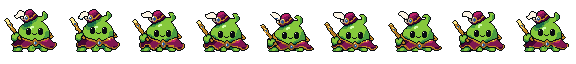
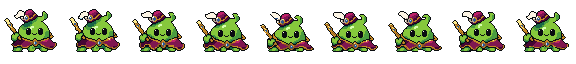
Refine Farmer prop motion and Bardley face timing

diff --git a/ArtSource/CombatIdles/Scripts/refine_motion_body.js b/ArtSource/CombatIdles/Scripts/refine_motion_body.js
@@ -1,0 +1,74 @@
+// Native LibreSprite refinement of the reviewed first family pass.
+// Integer pixel placement only. Preserve Rattlebones and Pan Villager byte-for-byte.
+function idx(x,y){return (y*64+x)*4;}
+function color(a,i){return ('0'+a[i].toString(16)).slice(-2).toUpperCase()+('0'+a[i+1].toString(16)).slice(-2).toUpperCase()+('0'+a[i+2].toString(16)).slice(-2).toUpperCase();}
+function cp(a,i,b,j){for(var k=0;k<4;++k)b[j+k]=a[i+k];}
+function put(a,i,h){a[i]=parseInt(h.substr(0,2),16);a[i+1]=parseInt(h.substr(2,2),16);a[i+2]=parseInt(h.substr(4,2),16);a[i+3]=255;}
+function read(c){
+ var a=new Uint8Array(16384),s=c.image.getImageData(),w=c.image.width,h=c.image.height;
+ for(var y=0;y<h;++y)for(var x=0;x<w;++x)cp(s,(y*w+x)*4,a,idx(x+c.x,y+c.y));return a;
+}
+function openInput(name){
+ app.open(ROOT+'Originals/FamilyPass1/'+name+'_Idle.aseprite');
+ var s=app.activeSprite,frames=[];for(var f=0;f<s.layer(0).celCount;++f)frames.push(read(s.layer(0).cel(f)));
+ s.saveAs(ROOT+'Review/'+name+'_Correction.aseprite',false);return {sprite:s,frames:frames};
+}
+function save(s,frames){
+ for(var f=0;f<9;++f){var c=s.layer(0).cel(f);if(c.image.width!==64||c.image.height!==64)throw Error('Expected full cels');c.image.putImageData(frames[f]);}
+ s.commit();s.save();app.command.GotoFirstFrame();
+}
+function isHead(x,y){return y<=35&&(y<23||x>=19);}
+var farmer=openInput('Farmer'),pose=new Uint8Array(farmer.frames[0]);
+// Correct a few existing material leaks inside the fixed reference pose.
+for(var y=0;y<36;++y)for(var x=0;x<64;++x){var i=idx(x,y);if(pose[i+3]&&isHead(x,y)&&y<23&&color(pose,i)==='B07A43')put(pose,i,'B88A46');}
+// The diagonal shaft is wood, not the matching-value skin shadow used by PixelLab.
+var shaftRows={41:[26,28],42:[27,30],43:[28,32],44:[30,34],45:[32,35],46:[34,37],47:[35,39],48:[37,41],49:[39,42]};
+for(var y in shaftRows){var span=shaftRows[y];for(var x=span[0];x<=span[1];++x){var i=idx(x,+y),h=color(pose,i);if(h==='7C5238')put(pose,i,'7A4D2E');else if(h==='B9825D')put(pose,i,'B07A43');}}
+var upper=[0,0,1,2,3,3,2,1,0],hip=[0,1,2,3,3,2,1,0,0],head=[0,0,1,1,2,2,1,1,1],farmerOut=[];
+for(var f=0;f<9;++f){
+ var a=new Uint8Array(16384),u=upper[f],h=head[f],k=hip[f];
+ // The entire tool, both hands, forearms and torso translate together. No tip-only mask.
+ for(var y=0;y<64;++y)for(var x=0;x<64;++x){var i=idx(x,y);if(!pose[i+3]||isHead(x,y))continue;
+  if(y>=54&&x<=42)continue;
+  if(y>=36&&y<40&&x>=26)continue; // shoulder/neck bridge below
+  cp(pose,i,a,idx(x,y+u));
+ }
+ // Connect the quieter head to the moving shoulders with existing pixel rows.
+ for(var y=36+h;y<40+u;++y){var sy=36+Math.floor((y-36-h)*4/(4+u-h));
+  for(var x=26;x<64;++x){var i=idx(x,sy);if(pose[i+3])cp(pose,i,a,idx(x,y));}
+ }
+ // Knees absorb the stance compression; the original boot/contact rows stay fixed.
+ for(var y=54+u;y<60;++y){var sy;
+  if(y<57+k)sy=54+Math.floor((y-54-u)*3/Math.max(1,3+k-u));
+  else sy=57+Math.floor((y-57-k)*3/Math.max(1,3-k));
+  for(var x=0;x<=42;++x)cp(pose,idx(x,sy),a,idx(x,y));
+ }
+ for(var y=60;y<64;++y)for(var x=0;x<=42;++x)cp(pose,idx(x,y),a,idx(x,y));
+ for(var y=0;y<36;++y)for(var x=0;x<64;++x){var i=idx(x,y);if(pose[i+3]&&isHead(x,y))cp(pose,i,a,idx(x,y+h));}
+ farmerOut.push(a);
+}
+save(farmer.sprite,farmerOut);
+
+var bard=openInput('Bardley'),eyeTop=[28,27,30,31,32,32,31,30,29],faceTop=[28,28,29,30,31,31,30,29,29],bardOut=[];
+var greens={'176747':true,'4A9B3F':true,'86C83C':true,'D5FFAD':true};
+for(var f=0;f<9;++f){
+ var src=bard.frames[f],a=new Uint8Array(src),features=[],mask={};
+ // Only the existing eye/catchlight/smile pixels move, as one exact facial glyph.
+ for(var y=eyeTop[f];y<=eyeTop[f]+6;++y)for(var x=26;x<=42;++x){var i=idx(x,y),c=color(src,i);
+  if(c==='0A0D11'||c==='FDF5E5'){features.push([x,y]);mask[y*64+x]=true;}
+ }
+ var dy=faceTop[f]-eyeTop[f];
+ if(dy){
+  // Restore the local slime plane from its nearest horizontal same-material neighbors.
+  for(var n=0;n<features.length;++n){var x=features[n][0],y=features[n][1],shade='86C83C';
+   for(var d=1;d<=12;++d){var found=false;
+    for(var sign=1;sign>=-1;sign-=2){var xx=x+sign*d;if(xx<0||xx>=64||mask[y*64+xx])continue;var c=color(src,idx(xx,y));if(greens[c]){shade=c;found=true;break;}}
+    if(found)break;
+   }
+   put(a,idx(x,y),shade);
+  }
+  for(var n=0;n<features.length;++n){var x=features[n][0],y=features[n][1];cp(src,idx(x,y),a,idx(x,y+dy));}
+ }
+ bardOut.push(a);
+}
+save(bard.sprite,bardOut);

diff --git a/ArtSource/CombatIdles/Preview.html b/ArtSource/CombatIdles/Preview.html
@@ -10,9 +10,9 @@
 <nav><button id="play">Pause</button><button id="prev" aria-label="Previous frame">←</button><button id="next" aria-label="Next frame">→</button><input id="frame" aria-label="Frame" type="range" min="1" max="9" value="1"><output id="position">Frame 1 / 9</output><label>Speed <select id="speed"><option value="1">100%</option><option value="0.5">50%</option></select></label><button id="background">Light background</button><button id="seam">Loop seam: 9 → 1</button></nav>
 <main>
 <article class="card" data-name="Rattlebones"><h2>Rattlebones</h2><div class="note">Gold-standard motion · 15 colors</div></article>
-<article class="card" data-name="Farmer"><h2>Farmer</h2><div class="note">Planted stance · pitchfork follow-through · 14 colors</div></article>
+<article class="card" data-name="Farmer"><h2>Farmer</h2><div class="note">Calmer head · rigid pitchfork and grips · 14 colors</div></article>
 <article class="card" data-name="PanVillager"><h2>Pan Villager</h2><div class="note">Upright stance dip · cool iron pan · 16 colors</div></article>
-<article class="card" data-name="Bardley"><h2>Bardley</h2><div class="note">Fuller settle and recovery · anchored base · 15 colors</div></article>
+<article class="card" data-name="Bardley"><h2>Bardley</h2><div class="note">Face follows body · anchored base · 15 colors</div></article>
 </main>
 <div class="footer"><p>Large views are exact 4× pixels; small views are native 1×. Canvas placement is unchanged. Bardley retains the source animation's ground contact at y=51; the others retain y=63. No automatic bottom alignment is applied.</p><p>Files: <a href="README.md">Delivery notes</a> · <a href="Validation.json">Frame and export checks</a></p></div>
 <script>

diff --git a/ArtSource/CombatIdles/Scripts/build_native_script.js b/ArtSource/CombatIdles/Scripts/build_native_script.js
@@ -15,3 +15,4 @@ for(const n of Object.keys(names)) for(const c of Object.keys(measurements[names
 const preamble='var ROOT = '+JSON.stringify(root.replaceAll('\\','/')+'/')+';\nvar MAPS = '+JSON.stringify(maps)+';\nvar SOURCES = '+JSON.stringify(names)+';\n';
 fs.writeFileSync(path.join(dir,'RestoreIdleMaterials.js'),preamble+fs.readFileSync(path.join(dir,'restore_materials_body.js'),'utf8'));
 fs.writeFileSync(path.join(dir,'UnifyIdleFamily.js'),'var ROOT = '+JSON.stringify(root.replaceAll('\\','/')+'/')+';\nvar PALETTES = '+JSON.stringify(palettes)+';\n'+fs.readFileSync(path.join(dir,'family_motion_body.js'),'utf8'));
+fs.writeFileSync(path.join(dir,'RefineIdleMotion.js'),'var ROOT = '+JSON.stringify(root.replaceAll('\\','/')+'/')+';\n'+fs.readFileSync(path.join(dir,'refine_motion_body.js'),'utf8'));

diff --git a/ArtSource/CombatIdles/Scripts/validate_refinement.py b/ArtSource/CombatIdles/Scripts/validate_refinement.py
@@ -1,0 +1,66 @@
+"""Read-only checks for connected props, preserved facial pixels and stable contacts."""
+import hashlib,json,sys
+from inspect_idles import ROOT,read_ase,color_counts
+
+candidate='--candidate' in sys.argv
+def frames(name):
+    path=ROOT/'Review'/(name+'_Correction.aseprite') if candidate else ROOT/(name+'_Idle.aseprite')
+    return read_ase(path)[0]
+def source(name):return read_ase(ROOT/'Originals/FamilyPass1'/(name+'_Idle.aseprite'))[0]
+def rgb(im,x,y):return '#%02X%02X%02X'%im.getpixel((x,y))[:3]
+def delta(values):return [values[(i+1)%9]-values[i] for i in range(9)]
+palettes=json.loads((ROOT/'Scripts/palettes.json').read_text())
+report={}
+farmer=frames('Farmer');ref=source('Farmer')[0]
+part_boxes={'tines':(0,23,19,39),'left_grip':(20,39,26,43),'right_grip':(41,49,46,53),'lower_shaft':(43,53,57,60)}
+offsets=[]
+for im in farmer:
+    # Recover motion independently from the topmost pitchfork pixel.
+    top=min(y for y in range(20,31) for x in range(0,10) if im.getpixel((x,y))[3])
+    dy=top-23;offsets.append(dy)
+    for part,(x0,y0,x1,y1) in part_boxes.items():
+        for y in range(y0,y1):
+            for x in range(x0,x1):
+                p=ref.getpixel((x,y))
+                if p[3]:assert im.getpixel((x,y+dy))==p,(part,x,y,dy)
+    assert im.crop((20,60,43,64)).tobytes()==ref.crop((20,60,43,64)).tobytes(),'boot drift'
+    assert set(color_counts([im]))<=set('#'+h for h in palettes['Farmer'])
+head_tops=[min(y for y in range(0,20) for x in range(20,50) if im.getpixel((x,y))[3]) for im in farmer]
+assert max(head_tops)-min(head_tops)<=2
+assert all(abs((y-head_tops[0])-u)<=1 for y,u in zip(head_tops,offsets)),'head separates from torso'
+assert max(abs(d) for d in delta(offsets))<=1
+assert max(offsets)-min(offsets)==3
+report['Farmer']={'head_top_y':head_tops,'head_travel_px':max(head_tops)-min(head_tops),
+    'pitchfork_and_grips_dy':offsets,'all_checked_prop_and_grip_pixels_translate_rigidly':True,'boot_pixels_unchanged':True}
+
+bard=frames('Bardley');old=source('Bardley');tops=[];body_tops=[];old_tops=[]
+greens={'#176747','#4A9B3F','#86C83C','#D5FFAD'}
+for before,after in zip(old,bard):
+    a=min(y for y in range(25,39) if rgb(before,39,y)=='#0A0D11')
+    b=min(y for y in range(25,39) if rgb(after,39,y)=='#0A0D11')
+    old_tops.append(a);tops.append(b)
+    glyph={(x,y):before.getpixel((x,y)) for y in range(a,a+7) for x in range(26,43) if rgb(before,x,y) in {'#0A0D11','#FDF5E5'}}
+    moved={(x,y+b-a):p for (x,y),p in glyph.items()}
+    assert all(after.getpixel(pos)==p for pos,p in moved.items()),'face pixel changed'
+    actual={(x,y):after.getpixel((x,y)) for y in range(b,b+7) for x in range(26,43) if rgb(after,x,y) in {'#0A0D11','#FDF5E5'}}
+    assert actual==moved,'added facial pixel'
+    allowed=set(glyph)|set(moved)
+    assert all(before.getpixel((x,y))==after.getpixel((x,y)) for y in range(64) for x in range(64) if (x,y) not in allowed),'body changed outside face repair'
+    assert before.getchannel('A').tobytes()==after.getchannel('A').tobytes(),'body silhouette changed'
+    assert all(rgb(after,x,y) in greens for x,y in set(glyph)-set(moved)),'non-slime fill'
+    body_tops.append(min(y for y in range(5,25) for x in range(40,51) if rgb(after,x,y) in greens))
+    assert set(color_counts([after]))<=set('#'+h for h in palettes['Bardley'])
+relative=[a-b for a,b in zip(tops,body_tops)]
+assert max(abs(d) for d in delta(tops))<=1
+assert max(relative)-min(relative)<=1
+report['Bardley']={'eye_top_before_y':old_tops,'eye_top_after_y':tops,'body_curl_top_y':body_tops,
+    'eye_to_body_curl_offset_px':relative,'max_face_step_before_px':max(map(abs,delta(old_tops))),
+    'max_face_step_after_px':max(map(abs,delta(tops))), 'eye_catchlight_smile_pixels_preserved':True,
+    'body_alpha_and_non_face_pixels_preserved':True}
[2 lines of base64/hex data omitted]
+    assert hashlib.sha256((ROOT/(name+'_Idle.aseprite')).read_bytes()).hexdigest()==digest
+    report[name]={'editable_file_unchanged':True}
+out=ROOT/'Review/RefinementValidation.json' if candidate else ROOT/'RefinementValidation.json'
+out.write_text(json.dumps(report,indent=2)+'\n')
+print(json.dumps(report,indent=2))

diff --git a/ArtSource/CombatIdles/Scripts/validate_idles.py b/ArtSource/CombatIdles/Scripts/validate_idles.py
@@ -20,7 +20,8 @@ for name,allowed in palettes.items():
     if name=='Rattlebones':
         assert all(a.getchannel('A').tobytes()==b.getchannel('A').tobytes() for a,b in zip(frames,original))
     if name=='Farmer':
-        assert all(im.getchannel('A').crop((0,62,64,64)).tobytes()==original[0].getchannel('A').crop((0,62,64,64)).tobytes() for im in frames)
+        # The rigid tool can descend beside the boots; compare the foot region itself.
+        assert all(im.getchannel('A').crop((20,62,43,64)).tobytes()==original[0].getchannel('A').crop((20,62,43,64)).tobytes() for im in frames)
     if name=='PanVillager':
         assert len(set(im.crop((0,63,64,64)).tobytes() for im in frames))==1
     if name=='Bardley':

diff --git a/ArtSource/CombatIdles/README.md b/ArtSource/CombatIdles/README.md
@@ -9,9 +9,11 @@ Open `Preview.html` for synchronized playback, frame stepping, 50% speed, dark/l
 | Character | Changes | Opaque palette |
 | --- | --- | --- |
 | Rattlebones | Removed generated color drift; kept every original pose, mask, frame order, and duration. | 15 colors |
-| Farmer | Restored straw, skin, rustic cloth and tool colors; unified the repeated source motion into one cycle; added a restrained one-pixel pitchfork response and stable soles. | 14 colors |
+| Farmer | Calmer two-pixel head travel; torso, both grips, and the complete rigid pitchfork move together through a three-pixel stance response. Boots stay fixed. Corrected small straw/wood material leaks. | 14 colors |
 | Pan Villager | Restored all material ramps; used upright source poses with a three-pixel stance dip, leg compression, and rigid pan movement. Recovery uses a distinct source pose. | 16 colors |
-| Bardley | Restored yellow-green/plum/gold material shading from the approved recolor, pale feather and blue jewels; cleaned contaminated alpha; added two articulated transition poses and fixed slime contact pixels. | 15 colors |
+| Bardley | Preserved the restored materials, body compression and anchored base; retimed the exact existing eyes/catchlights/smile together so the face follows the body with at most a one-pixel step. | 15 colors |
+
+The correction pass addresses the first delivery's tip-only pitchfork movement and premature three-pixel eye drop. Farmer now uses a stable source head/held-tool pose, with whole-pixel articulation below it; the head stays within one pixel of the torso's offset. Bardley's body silhouette and all pixels outside the local face repair remain unchanged. Rattlebones and Pan Villager are byte-for-byte unchanged by this refinement.
 
 ## Alignment and source preservation
 
@@ -19,6 +21,7 @@ Open `Preview.html` for synchronized playback, frame stepping, 50% speed, dark/l
 - Farmer and Pan Villager retain their source ground contact at y=63. Rattlebones retains its complete original geometry and timing.
 - Bardley's base remains at **y=51**, matching the source animation. The static recolor's unresolved 12-pixel downward offset was not carried into the animation.
 - `Originals/` contains snapshots saved directly from all four open LibreSprite documents before editing, including their in-memory edits. The original Downloads files were not overwritten.
+- `Originals/FamilyPass1/` preserves the reviewed Farmer/Bardley delivery before this correction, and supplies the correction script's reproducible inputs.
 - These are art-source deliverables, outside Unity's `Assets/` directory. No runtime behavior, animator, sprite import settings, GUIDs, or serialized scene/prefab references were changed.
 
 ## Color and shading authority
@@ -37,15 +40,17 @@ Bardley's individual `BardleyFinal.png` supplied the spatial material-shading re
 - infinite GIF looping and matching JSON timing/size metadata;
 - unchanged Rattlebones masks and stable Farmer soles / Pan Villager sole row / Bardley base row.
 
+`Scripts/validate_refinement.py` and `RefinementValidation.json` additionally check rigid translation of the fork tines, both grips and lower shaft, fixed Farmer boot pixels, reduced head travel, Bardley's exact facial glyph, one-pixel maximum face steps, and preservation of Bardley's non-face pixels. The face-to-body curl offset varies by only one pixel across the loop. The check also pins the unchanged Rattlebones and Pan Villager editable-file hashes.
+
 Visual review covered each frame, material separation, native-size readability, dark/light backgrounds, side-by-side cadence, and the final-to-first transition. Numeric pixel-difference measurements are inspection aids, not a claim that an artistic loop is objectively perfect.
 
 Unity validation/runtime testing was not run: this is an art-only delivery with no Unity serialization or code changes.
 
 ## Production helpers
 
-- Run `inspect_idles.py` first to inspect the source snapshots, then `build_native_script.js` to assemble the material-restoration script, motion script and approved palette files. Run the generated material script and then the motion script inside LibreSprite on a fresh working copy when reproducing the pass; the scripts save named outputs.
-- `restore_materials_body.js` and `family_motion_body.js` record the native LibreSprite edit operations.
+- Run `inspect_idles.py` first, then `build_native_script.js` to assemble the native scripts and palettes. `RestoreIdleMaterials.js` followed by `UnifyIdleFamily.js` reproduces the first pass. `RefineIdleMotion.js` reads the preserved `Originals/FamilyPass1/` inputs and saves the corrected Farmer/Bardley candidates under `Review/`; review and save those as the matching root `_Idle.aseprite` files before exporting.
+- `restore_materials_body.js`, `family_motion_body.js` and `refine_motion_body.js` record the native LibreSprite edit operations.
 - `export_idles.ps1` exports the final editable files using the local LibreSprite executable.
-- `inspect_idles.py` and `validate_idles.py` are read-only artwork inspection/validation helpers. They do not recolor or generate the edited sprites.
+- `inspect_idles.py`, `validate_idles.py` and `validate_refinement.py` are read-only artwork inspection/validation helpers. They do not recolor or generate the edited sprites. Use `validate_refinement.py --candidate` to check the review files before saving the final delivery.
 
 The local `Review/` directory and temporary UI helpers are working evidence, excluded from the committed delivery. The final files at this directory's root are authoritative for this pass.

diff --git a/Docs/PROJECT_STATE.md b/Docs/PROJECT_STATE.md
@@ -119,7 +119,7 @@ The current player cast includes the crowned skeleton **Sir RattleBones / Rattle
 
 ## Combat-idle art checkpoint
 
-`ArtSource/CombatIdles/` contains edited Rattlebones, Farmer, Pan Villager and Bardley idle sources, each with nine 64×64 frames at 130 ms (1.17 seconds). Rattlebones's motion is preserved as the reference; Farmer has restrained pitchfork follow-through; Pan Villager uses a more upright stance dip; Bardley has a fuller settle/recovery arc. Every frame uses its approved material palette, with the shared `#0A0D11` outline and binary transparency. See the [delivery notes](../ArtSource/CombatIdles/README.md) and [byte-level checks](../ArtSource/CombatIdles/Validation.json).
+`ArtSource/CombatIdles/` contains edited Rattlebones, Farmer, Pan Villager and Bardley idle sources, each with nine 64×64 frames at 130 ms (1.17 seconds). The refinement in [PR #159](https://github.com/PlatFll/Dungeon-Matcher/pull/159) gives Farmer a calmer two-pixel head motion and a rigid pitchfork carried by both grips, and keeps Bardley's existing face pixels moving with the body in steps of at most one pixel. Rattlebones's reference motion and Pan Villager's upright stance dip are unchanged by the refinement. Every frame uses its approved material palette, with the shared `#0A0D11` outline and binary transparency. See the [delivery notes](../ArtSource/CombatIdles/README.md), [frame/export checks](../ArtSource/CombatIdles/Validation.json), and [motion checks](../ArtSource/CombatIdles/RefinementValidation.json).
 
 This is a source-art checkpoint, not a change to the shipped animation setup. Existing Unity imports, animator clips, scenes and gameplay are untouched. Bardley retains the animation's native y=51 contact line; the static palette reference's unresolved 12-pixel downward translation has not been adopted. Check pivots/alignment explicitly when this set is integrated into Unity. Visual review and frame/export checks were performed; Unity validation/runtime testing was not required or run for this art-only pass.
 
